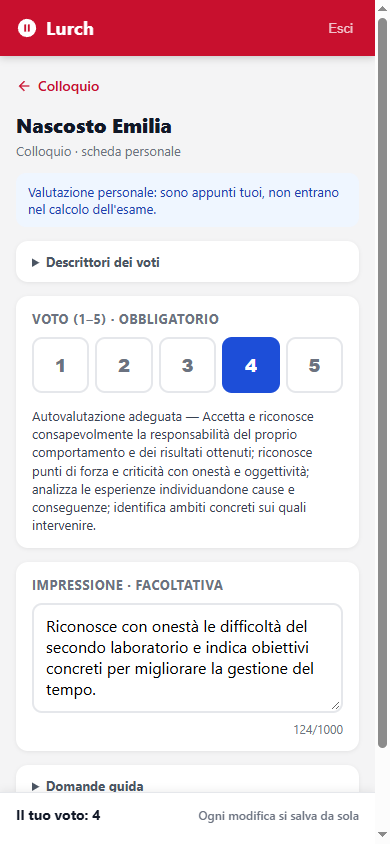
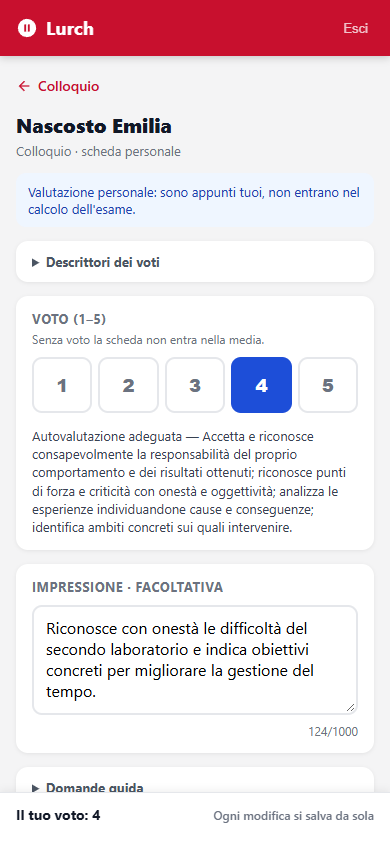
chore: rilascio 1.86.4, esami con note libere, statistica e annullamento delle domande del test
- versione 1.86.4 e voce del CHANGELOG
- guida Esami: schermate della statistica con le nuove evidenze e della scheda del colloquio rifatte, tag delle schermate alla 1.86.4

diff --git a/config/app.php b/config/app.php
@@ -15,7 +15,7 @@ return [
 
     'name' => env('APP_NAME', 'Laravel'),
 
-    'version' => '1.86.3',
+    'version' => '1.86.4',
 
     // Anno di nascita del software: i footer mostrano «© anno_inizio–anno corrente» (App\Support\Copyright).
     'anno_inizio' => 2026,

diff --git a/docs/04-esami/04-modello-tcri/05-prova-pratica.md b/docs/04-esami/04-modello-tcri/05-prova-pratica.md
@@ -13,7 +13,7 @@ Le compilano il **direttore** e i **docenti in commissione**, quando la prova fi
 
 La scheda funziona come quella dei laboratori: timer in alto, un tocco per voce che si salva da solo, **Invia scheda** con tutte le 28 voci, modifiche possibili anche dopo l'invio. Sotto le voci c'è l'**annotazione**, facoltativa e fino a 1000 caratteri, come nei laboratori: si scrive anche prima di scegliere le voci e si salva da sola. La leggono il direttore, il presidente o delegato e i docenti in commissione nel riepilogo, solo dopo l'invio della scheda. Qui non c'è il confronto con gli altri: le schede di tutti si leggono nel riepilogo. Se la prova finale viene richiusa, o l'esame non è in corso, la scheda si può solo consultare.
 
-<!-- screenshot: route=/app/esami/1/prova-pratica/discenti/9226 · v1.86.3-dev · 2026-11-22 · larghezza telefono, docente di prova in commissione, scheda inviata e annotazione d'esempio -->
+<!-- screenshot: route=/app/esami/1/prova-pratica/discenti/9226 · v1.86.4 · 2026-11-22 · larghezza telefono, docente di prova in commissione, scheda inviata e annotazione d'esempio -->
 ![Annotazione della scheda personale della prova pratica](../../immagini/esami/app-scheda-prova-pratica.png)
 
 Nella proposta del direttore contano solo le schede **inviate**.
@@ -30,7 +30,7 @@ Nella proposta del direttore contano solo le schede **inviate**.
 - **Vedi voci** apre la tabella voce per commissario, con la colonna della proposta; le voci su cui i commissari non concordano hanno «≠» e lo sfondo ambra.
 - La **scheda finale della prova pratica**: il totale, l'eventuale motivazione, chi l'ha inserita e quando.
 
-<!-- screenshot: route=/admin/esami/1/valutazioni/prova-pratica · v1.86.3-dev · 2026-11-22 · come direttore, discente aperto con annotazione e motivazione d'esempio -->
+<!-- screenshot: route=/admin/esami/1/valutazioni/prova-pratica · v1.86.4 · 2026-11-22 · come direttore, discente aperto con annotazione e motivazione d'esempio -->
 ![Annotazione di una scheda inviata e motivazione della scheda finale](../../immagini/esami/prova-pratica-note.png)
 
 ## Inserire la scheda finale
@@ -47,7 +47,7 @@ Nella proposta del direttore contano solo le schede **inviate**.
 - Una scheda personale si invia solo completa, quindi con almeno una scheda inviata la proposta copre già tutte le 28 voci: per accettarla basta controllarla e premere **Salva scheda finale**.
 - Si modifica fino alla chiusura con **Modifica prova pratica finale**; **Annulla** torna alla pagina senza salvare.
 
-<!-- screenshot: route=/admin/esami/1/valutazioni/prova-pratica/9226/finale · v1.86.3-dev · 2026-11-22 · come direttore, fondo della pagina con una motivazione d'esempio -->
+<!-- screenshot: route=/admin/esami/1/valutazioni/prova-pratica/9226/finale · v1.86.4 · 2026-11-22 · come direttore, fondo della pagina con una motivazione d'esempio -->
 ![Motivazione della scheda finale](../../immagini/esami/prova-pratica-finale-motivazione.png)
 
 ## Il riepilogo nell'app

diff --git a/docs/04-esami/03-svolgimento-e-chiusura/02-test-scritto.md b/docs/04-esami/03-svolgimento-e-chiusura/02-test-scritto.md
@@ -6,7 +6,7 @@ Da **Valutazioni → Test scritto** il direttore avvia il test ai discenti, segu
 
 La pagina la vedono chi gestisce l'esame e la commissione. **Avviare, disattivare e gestire il test su carta spetta solo al direttore**, a esame in corso; per gli altri la pagina è in sola lettura, tranne la pubblicazione dei risultati (vedi sotto).
 
-<!-- screenshot: route=/admin/esami/1/valutazioni/test-scritto · v1.86.3-dev · 2026-11-22 · come direttore del corso, statistica chiusa -->
+<!-- screenshot: route=/admin/esami/1/valutazioni/test-scritto · v1.86.4 · 2026-11-22 · come direttore del corso, statistica chiusa -->
 ![Pagina Test scritto](../../immagini/esami/test-scritto.png)
 
 ## Lo stato del test
@@ -64,7 +64,7 @@ Le domande annullate non hanno evidenze e non contano nel confronto.
 
 **Scarica la statistica (PDF)**, in cima alla sezione, scarica la stessa statistica che vede il direttore, con le evidenze e le domande annullate (chi, quando, motivo), per condividerla con i docenti. Non contiene nomi di discenti, ma contiene le **risposte corrette**: non va dato ai discenti. Lo scarica chi vede la pagina, anche a esame chiuso.
 
-<!-- screenshot: route=/admin/esami/1/valutazioni/test-scritto · v1.86.3-dev · 2026-11-22 · come direttore, statistica aperta sulle prime 4 domande; domande sostituite a video con domande d'esempio -->
+<!-- screenshot: route=/admin/esami/1/valutazioni/test-scritto · v1.86.4 · 2026-11-22 · come direttore, statistica aperta sulle prime 4 domande (una per evidenza e una annullata); domande sostituite a video con domande d'esempio -->
 ![Statistica delle risposte con una domanda annullata](../../immagini/esami/test-scritto-statistica.png)
 
 ## Annullare una domanda
@@ -77,7 +77,7 @@ Se una domanda è sbagliata o poco chiara, il direttore la può **annullare** co
 - nella statistica, in **Vedi risposte** e nell'app della commissione la domanda compare come **Domanda annullata**, con chi l'ha annullata, quando e perché; il discente la vede annullata, con il motivo, solo quando gli vengono pubblicati i risultati;
 - **Ripristina la domanda** la fa tornare nel calcolo, alle stesse condizioni. Non si può annullare l'ultima domanda valida del test.
 
-<!-- screenshot: route=/admin/esami/1/valutazioni/test-scritto · v1.86.3-dev · 2026-11-22 · come direttore, finestra «Annulla la domanda» con un motivo d'esempio -->
+<!-- screenshot: route=/admin/esami/1/valutazioni/test-scritto · v1.86.4 · 2026-11-22 · come direttore, finestra «Annulla la domanda» con un motivo d'esempio -->
 ![Finestra per annullare una domanda](../../immagini/esami/annulla-domanda.png)
 
 ## Risultati e pubblicazione ai discenti

diff --git a/docs/04-esami/01-come-funziona/04-l-esame-nell-app.md b/docs/04-esami/01-come-funziona/04-l-esame-nell-app.md
@@ -36,7 +36,7 @@ Quando la prova finale è aperta, la sezione **Prova finale** passa in cima alla
 
 Nella pagina **Test scritto** la statistica ha le stesse evidenze del pannello ([Statistica delle risposte](../03-svolgimento-e-chiusura/02-test-scritto.md#statistica-delle-risposte)); il PDF si scarica solo dal pannello. I riquadri delle domande e della statistica restano chiusi a ogni apertura e aggiornamento della pagina: chi la ricarica durante il test per vedere chi ha inviato non mette in vista le risposte corrette.
 
-<!-- screenshot: route=/app/esami/1/test/anteprima · v1.86.3-dev · 2026-11-22 · larghezza telefono, docente di prova in commissione, riquadri chiusi -->
+<!-- screenshot: route=/app/esami/1/test/anteprima · v1.86.4 · 2026-11-22 · larghezza telefono, docente di prova in commissione, riquadri chiusi -->
 ![La pagina Test scritto della commissione](../../immagini/esami/app-test-commissione.png)
 
 Le singole schede sono descritte nel capitolo del modello: per gli esami TCRI vedi [Modello TCRI](../04-modello-tcri/README.md).

diff --git a/docs/04-esami/04-modello-tcri/04-colloquio.md b/docs/04-esami/04-modello-tcri/04-colloquio.md
@@ -20,7 +20,7 @@ Il testo completo di ogni livello è nella scheda. Le **domande guida** del coll
 
 La compilano il **direttore** e i **docenti in commissione**, quando la prova finale è aperta ([Ciclo di vita](../01-come-funziona/02-ciclo-di-vita.md#prova-finale-aperta-o-chiusa)); il presidente o delegato non compila. Dalla pagina dell'esame, nella sezione **Prova finale**, **Colloquio** elenca i discenti ammessi con il proprio voto oppure «Da fare».
 
-<!-- screenshot: route=/app/esami/1/colloquio/discenti/9226 · v1.86.2 · 2026-11-19 · larghezza telefono, docente di prova in commissione, voto e impressione d'esempio -->
+<!-- screenshot: route=/app/esami/1/colloquio/discenti/9226 · v1.86.4 · 2026-11-22 · larghezza telefono, docente di prova in commissione, voto e impressione d'esempio -->
 ![Scheda personale del colloquio](../../immagini/esami/app-scheda-colloquio.png)
 
 - **Descrittori dei voti** apre il testo dei cinque livelli; è aperto finché non si sceglie un voto.

diff --git a/CHANGELOG.md b/CHANGELOG.md
@@ -4,7 +4,7 @@ Una voce per ogni versione rilasciata, dalla più recente.
 
 Le voci fino alla 1.85.16 sono ricostruite dagli oggetti dei commit. Le modifiche non ancora rilasciate stanno in «In sviluppo» e ricevono il numero di versione al rilascio.
 
-## In sviluppo
+## 1.86.4 — 2026-11-22
 
 - feat: esami, prova pratica — la scheda personale di direttore e docenti in commissione ha l'annotazione libera come i laboratori, scrivibile anche prima di scegliere le voci; nel riepilogo della prova finale la leggono direttore, presidente o delegato e commissione, solo a scheda inviata
 - feat: esami, prova pratica — la scheda finale del direttore ha una motivazione facoltativa, nota agli atti sul punteggio definitivo, mostrata nel riepilogo della prova finale (non negli export)
